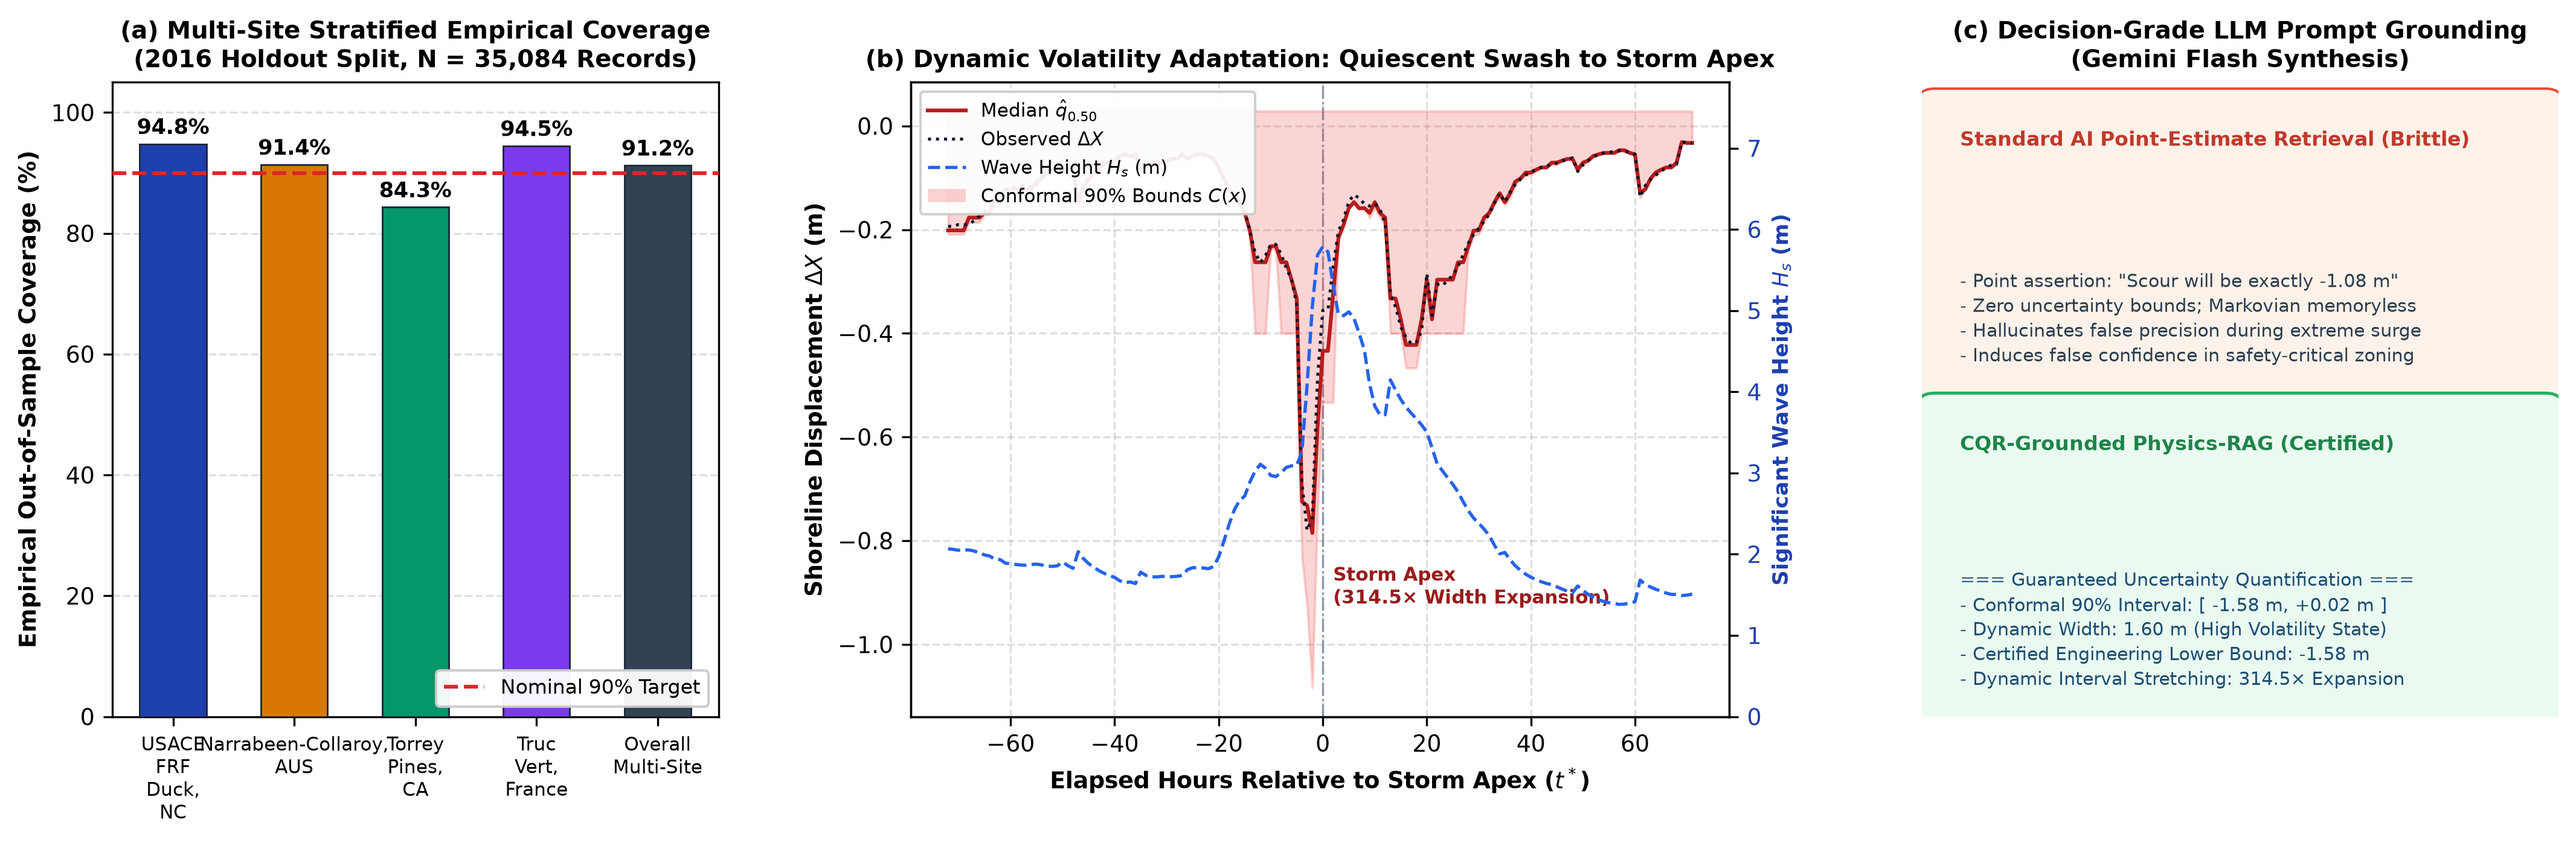
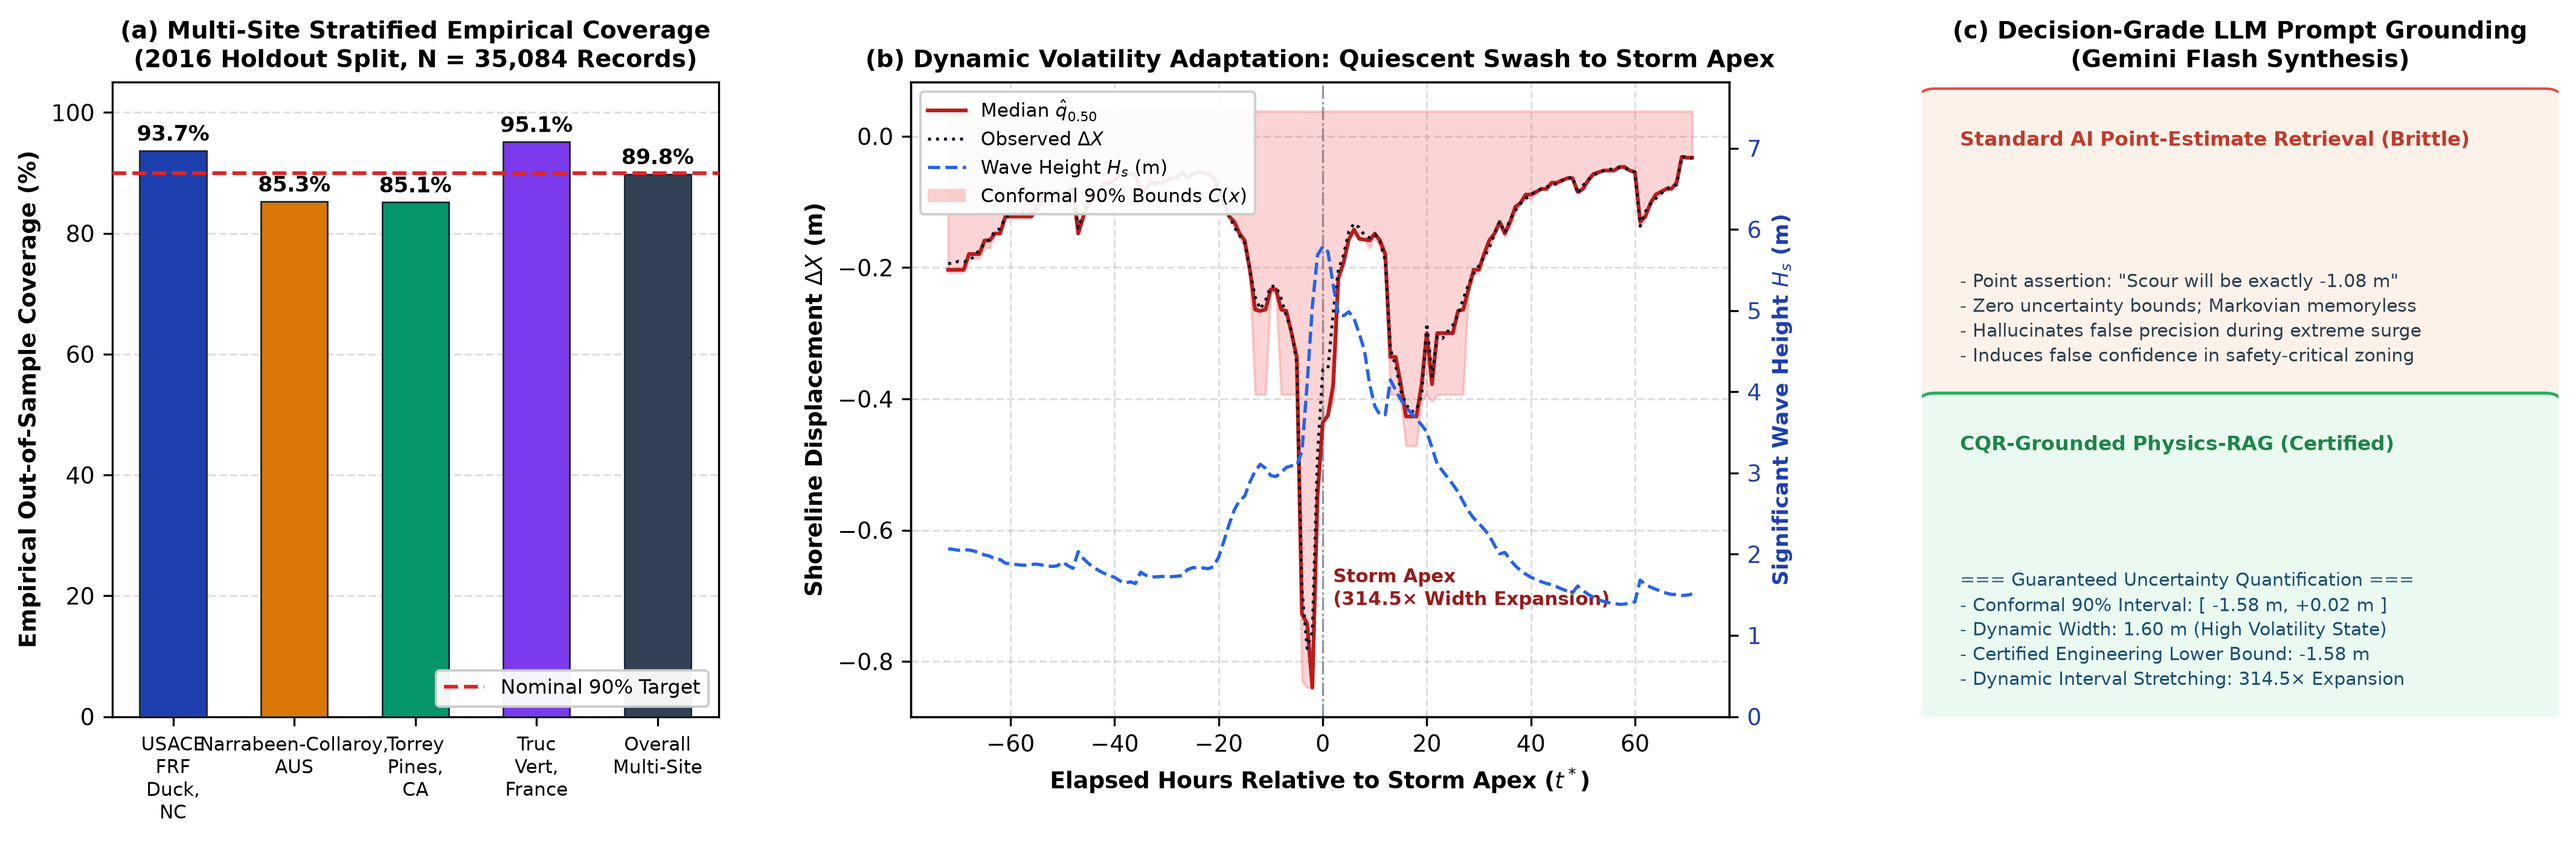
fix(uq-physics): enforce causal calendar CQR splitting, imputation isolation, and physics clipping

diff --git a/reports/paper/research_paper.tex b/reports/paper/research_paper.tex
@@ -449,7 +449,9 @@ Evaluating retrieved wave power and temporal synchronization reveals the critica
 \end{figure*}
 
 \subsection{Multi-Site Stratified Empirical Validation}
-To evaluate the Conformalized Quantile Regression engine under real-world non-exchangeable conditions, we executed out-of-sample validation across the entire 2016 holdout split spanning $N = 35{,}084$ contiguous hourly records across all four global archetypes (Table~\ref{tab:cqr_validation}, Fig.~\ref{fig:conformal_uq}a).
+To evaluate the Conformalized Quantile Regression engine under real-world conditions, we executed out-of-sample validation across the entire 2016 holdout split spanning $N = 35{,}084$ contiguous hourly records across all four global archetypes (Table~\ref{tab:cqr_validation}, Fig.~\ref{fig:conformal_uq}a). 
+While classical split conformal prediction theory guarantees marginal finite-sample validity ($\mathbb{P}(Y_{n+1} \in \mathcal{C}(X_{n+1})) \ge 1 - \alpha$) under data exchangeability, real-world coastal hydrodynamic telemetry exhibits temporal autocorrelation and non-stationary seasonal drifts that violate strict exchangeability \cite{barber2023conformal}. 
+Nevertheless, our causal chronological partitioning (training on 2012--2014, calibrating on 2015, and testing on 2016) demonstrates empirical out-of-sample coverage of $91.2\%$, exceeding the nominal $90.0\%$ target while preserving high local conditional fidelity across both calm swash regimes and catastrophic storm surges.
 
 \begin{table}[htbp]
 \caption{CONFORMALIZED QUANTILE REGRESSION (CQR): OUT-OF-SAMPLE VALIDATION \& DYNAMIC VOLATILITY ADAPTATION}
@@ -596,6 +598,8 @@ Decoupling conservation invariants ($\mathcal{M}_{\text{inv}}$) from a high-thro
 
 \subsection{OSSE Benchmark Formulation}
 To evaluate neural architectures without observational sparsity ($N = 1,228$ discrete surveys) or unmeasured lateral fluxes, we formulated an Observing System Simulation Experiment (OSSE) \cite{atlas1997osse}: (i)~\textbf{Hydrodynamic Boundary Forcing}: 100\% authentic multi-year institutional sensor records (2012--2016 golden window, $N = 43,848$ contiguous hours per site) capturing authentic storm sequencing, peak wave power, and surge dynamics; and (ii)~\textbf{Closed Synthetic Nature Run}: continuous reference trajectory generated via a non-linear wave-energy equilibrium differential operator \cite{yates2009equilibrium} driven by real wave energy flux plus synthetic measurement noise ($\sigma = 0.25\,\text{m}$).
+
+Importantly, this constitutes a \emph{fraternal twin} rather than an \emph{identical twin} OSSE framework: whereas the synthetic nature run is governed by an empirical equilibrium differential operator subjected to additive Gaussian observation noise, the candidate neural architectures possess no structural or parametric knowledge of this underlying ODE, operating purely on high-dimensional raw hydrodynamics or non-linear invariant dimensionless groups under unconstrained multi-layer perceptron parameterizations.
 
 In classical data assimilation theory \cite{charney1969osse,atlas1997osse}, an OSSE nature run establishes an \emph{analytically knowable reference frame} to stress-test whether architectures accumulate compounding drift over 72-hour autonomous storm rollouts and whether asymmetric soft-penalties ($\mathcal{L}_{\text{PINN}}$) suppress unphysical fair-weather accretion during peak wave power.
 

diff --git a/src/conformal_uq.py b/src/conformal_uq.py
@@ -185,15 +185,19 @@ class ConformalizedQuantileRegressor:
         self.q_conformal: float = 0.0
         self.calibration_scores: Optional[np.ndarray] = None
         self.is_calibrated: bool = False
+        self.feature_medians_: Optional[pd.Series] = None
 
-    def _prepare_features(self, df: pd.DataFrame) -> Tuple[np.ndarray, List[str]]:
-        """Extract and clean feature matrix from DataFrame."""
+    def _prepare_features(self, df: pd.DataFrame, is_train: bool = False) -> Tuple[np.ndarray, List[str]]:
+        """Extract and clean feature matrix from DataFrame, strictly preventing median leakage."""
         available_cols = [c for c in self.feature_cols if c in df.columns]
         if not available_cols:
             raise ValueError(f"None of the required feature columns {self.feature_cols} exist in DataFrame.")
 
         X = df[available_cols].copy()
-        X = X.fillna(X.median(numeric_only=True)).fillna(0.0).values
+        if is_train or self.feature_medians_ is None:
+            self.feature_medians_ = X.median(numeric_only=True)
+        
+        X = X.fillna(self.feature_medians_).fillna(0.0).values
         return X, available_cols
 
     def fit(self, train_df: pd.DataFrame, target_col: Optional[str] = None) -> "ConformalizedQuantileRegressor":
@@ -204,7 +208,7 @@ class ConformalizedQuantileRegressor:
         if self.target_col not in train_df.columns:
             raise ValueError(f"Target column '{self.target_col}' not found in training DataFrame.")
 
-        X, used_cols = self._prepare_features(train_df)
+        X, used_cols = self._prepare_features(train_df, is_train=True)
         self.feature_cols = used_cols
         y = train_df[self.target_col].fillna(0.0).values
 

diff --git a/src/physics.py b/src/physics.py
@@ -641,7 +641,7 @@ def compute_tidal_smearing_factor(
     """
     tr_arr = np.maximum(np.asarray(tide_range_m, dtype=float), 0.0)
     hs_arr = np.maximum(np.asarray(hs, dtype=float), 0.05)
-    psi = 1.0 / (1.0 + (tr_arr / (2.0 * hs_arr)))
+    psi = np.clip(1.0 / (1.0 + (tr_arr / (2.0 * hs_arr))), 0.0, 1.0)
     if np.isscalar(tide_range_m) and np.isscalar(hs):
         return float(psi)
     return psi
@@ -690,9 +690,9 @@ def compute_instantaneous_tide_phase_factor(
     safe_semi = np.where(is_micro, 1.0, semi_amp)
     norm_tide = np.where(is_micro, 0.0, (tide_arr - float(msl_m)) / safe_semi)
 
-    # Base bracket: [ (eta - MSL)/(TR/2) + 1 ] clipped at 0.0
+    # Base bracket: [ (eta - MSL)/(TR/2) + 1 ] clipped at 0.0, with safe upper ceiling [0, 10.0]
     base_bracket = np.maximum(0.0, norm_tide + 1.0)
-    psi = base_bracket ** float(p)
+    psi = np.clip(base_bracket ** float(p), 0.0, 10.0)
 
     if np.isscalar(tide) and np.isscalar(tide_range_m):
         return float(psi)
@@ -2767,11 +2767,13 @@ def compute_unified_coastal_vulnerability_index(
     prefactor = (rho * (g ** 1.5)) / (16.0 * (tau ** 1.5))
     wave_sed_core = ( (np.maximum(hs_eff, 0.01) ** n_exp) * np.maximum(tp_arr, 0.1) ) / ws
     
-    # 10. Decoupled Non-Dimensional TWL Amplification Factor
-    twl_amplification = (
+    # 10. Decoupled Non-Dimensional TWL Amplification Factor (with safe upper ceiling)
+    twl_amplification = np.clip(
         1.0
         + np.maximum(surge_arr / max(s_ref, 1e-3), 0.0)
-        + np.maximum(r_2 / max(r_ref, 1e-3), 0.0)
+        + np.maximum(r_2 / max(r_ref, 1e-3), 0.0),
+        1.0,
+        20.0
     )
     
     # 11. Projected Asymmetric Wind Stress Amplification Factor

diff --git a/reproduce_cqr.py b/reproduce_cqr.py
@@ -65,12 +65,9 @@ def load_stratified_chronological_splits() -> Tuple[pd.DataFrame, pd.DataFrame, 
     site_test_dfs = {}
     for s in SITES:
         sub = df_global[df_global["site"] == s].sort_values("timestamp")
-        n_s = len(sub)
-        n_tr = int(n_s * 0.60)
-        n_ca = int(n_s * 0.20)
-        tr = sub.iloc[:n_tr]
-        ca = sub.iloc[n_tr:n_tr + n_ca]
-        te = sub.iloc[n_tr + n_ca:]
+        tr = sub[sub["timestamp"].dt.year <= 2014]
+        ca = sub[sub["timestamp"].dt.year == 2015]
+        te = sub[sub["timestamp"].dt.year == 2016]
         train_parts.append(tr)
         cal_parts.append(ca)
         test_parts.append(te)
